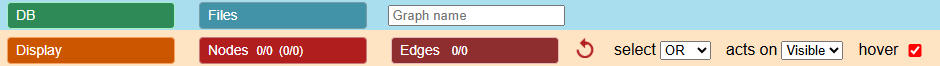
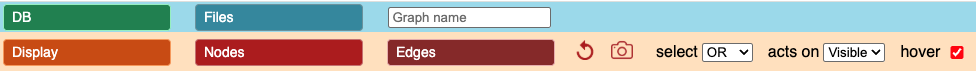
add PNG capture

Changed region(s): [[0.0, 0.5455, 0.9872, 0.9697], [0.0, 0.0, 1.0, 0.4545]]

diff --git a/public/index.html b/public/index.html
@@ -63,7 +63,7 @@
             <li action="localUpload">Upload</li>
 
 
-<!--  uncomment to use a shared storage on the server 
+            <!--  uncomment to use a shared storage on the server 
 
 
         <li class="separator"></li>
@@ -361,22 +361,22 @@
                   <span class="label">generate trigger impacts</span>
                 </li>
 
-                    <li action="collapseAssociations">
-                      <span class="label">collapse association</span>
-                    </li>
-                    <li action="restoreAssociations">
-                      <span class="label">restore association</span>
-                    </li>
+                <li action="collapseAssociations">
+                  <span class="label">collapse association</span>
+                </li>
+                <li action="restoreAssociations">
+                  <span class="label">restore association</span>
+                </li>
               </ul>
             </li>
 
             <li data-category="filterEdges">filter &gt;
 
-                  <ul class="submenu">
-                    <li action="edgeIsTriggerGenerated">generated triggers </li>
-                    <li action="edgeIsACollapsedNode">collapsed associations</li>
-                  </ul>
-                </li>
+              <ul class="submenu">
+                <li action="edgeIsTriggerGenerated">generated triggers </li>
+                <li action="edgeIsACollapsedNode">collapsed associations</li>
+              </ul>
+            </li>
 
             <li class="separator"></li>
 
@@ -388,6 +388,10 @@
       <!-- Controls -->
       <button id="undo-btn" title="Undo (Ctrl+Z)">
         <img src="./img/rollback2.png" alt="Undo" style="width: 20px; height: 20px;">
+      </button>
+      <button id="btn-export" title="PNG Snapshot">
+        <img src="./img/redCapture.png" alt="PNG Snapshot" style="width: 22px; height: 22px;">
+
       </button>
 
       <span class="labelPrevious">select</span>

diff --git a/public/css/style.css b/public/css/style.css
@@ -60,21 +60,24 @@ button:hover {
   color: black;
   /* au choix */
 }
-#undo-btn {
+#undo-btn,#btn-export {
   all: unset;
   cursor: pointer;
-  padding: 4px;
+  padding: 8px;
   border-radius: 4px;
 }
 
-#undo-btn:hover {
-  background-color: rgba(0, 0, 0, 0.1);
+#undo-btn:hover{
+  background-color: cornsilk;
 }
 
 #undo-btn:active {
   background-color: rgba(0, 0, 0, 0.2);
 }
 
+#btn-export:hover {
+  background-color: cornsilk;
+} 
 
 
 .metrologie {
@@ -345,8 +348,8 @@ button:hover {
 }
 
 .smallPerim {
-  font-size: 0.8em;
-  color: lightgrey;
+  font-size: 0.9em;
+  color: cornsilk;
 }
 
 

diff --git a/public/cyStyles.js b/public/cyStyles.js
@@ -45,17 +45,16 @@ export const cyStyles = [
     selector: "edge",
     style: {
       width: 2,
-      "line-color": "#aaa",
-      "target-arrow-color": "#aaa",
+      "line-color": "#888",
+      "target-arrow-color": "#888",
       "target-arrow-shape": "vee",
       "arrow-scale": 1.2,
       "curve-style": "straight",
       label: "",
       "font-size": "8px",
       "text-rotation": "autorotate",
-      "line-color": "#ccc",
       "target-arrow-shape": "triangle",
-      "target-arrow-color": "#ccc",
+
     },
   },
   {

diff --git a/public/interceptors.js b/public/interceptors.js
@@ -329,4 +329,19 @@ export function setInterceptors() {
   */
 
   document.getElementById("cy").style.backgroundColor = "white";
+/*
+ add capture png
+*/
+document.getElementById("btn-export").addEventListener("click", () => {
+    const png = cy.png({ full: false, scale: 2, bg: 'white' });
+
+    const link = document.createElement("a");
+    link.href = png;
+    link.download = "graph-capture.png";
+    link.click();
+  });
+
+
+
 } // setInterceptor
+

diff --git a/public/main.js b/public/main.js
@@ -273,7 +273,7 @@ export function metrologie() {
   // ------------ edges info
 
   const labelEdges = document.querySelector("#EdgesId");
-  display = `Edges&nbsp;&nbsp;&nbsp; <small>${selectedEdges}/${allEdges}&nbsp;</small>`;
+  display = `Edges&nbsp;&nbsp;&nbsp; ${small}${selectedEdges}/${allEdges}&nbsp;</span>`;
   labelEdges.innerHTML = display;
 
   /* const labelDelete = document.querySelector(

diff --git a/public/docs/menuBar.md b/public/docs/menuBar.md
@@ -7,12 +7,23 @@ Menus and submenus appear on hover and disappear when the cursor leaves.
 
 ---
 
-## 🔁 Undo
+## <img src ="../img/rollback2.png" height =20px/> Undo
 
 The **counterclockwise symbol** in the menu restores the previous state.  
 You can also use the keyboard shortcut **Ctrl + Z**.
 
 ---
+
+
+## <img src ="../img/redCapture.png" height =25px/> PNG Snapshot
+
+This button captures the current view of the graph and prompts you to download it as a PNG image.
+
+---
+## Hover toggle 
+
+Displays element details when the cursor hovers over them.
+
 
 ## 🔎 Select Mode: OR / AND
 
